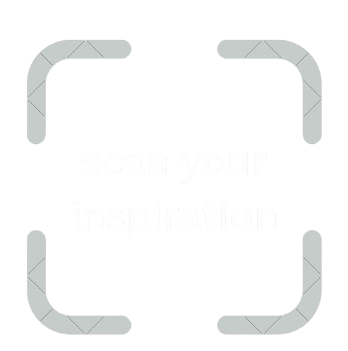
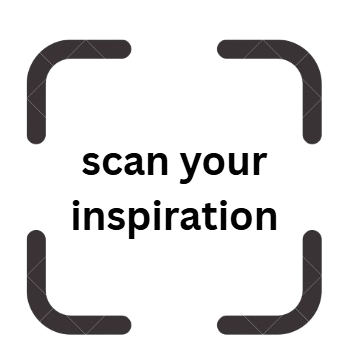
updated ui

diff --git a/my-fashion-app/src/App.jsx b/my-fashion-app/src/App.jsx
@@ -1,17 +1,111 @@
-import { useState } from "react";
+import { useState, useRef, useEffect } from "react";
+import { HiOutlineCamera } from "react-icons/hi";
 import defaultImage from "./assets/preview.png";
 import './index.css';
 
+function LoadingBar() {
+  return (
+    <div className="w-full h-1 bg-gray-200 relative overflow-hidden mb-4">
+      <div className="absolute inset-0 bg-blue-500 animate-loading-bar"></div>
+    </div>
+  );
+}
+
+function CameraCapture({ stream, stopCamera, onCapture }) {
+  const videoRef = useRef(null);
+
+  useEffect(() => {
+    if (videoRef.current && stream) {
+      videoRef.current.srcObject = stream;
+    }
+  }, [stream]);
+
+  const takePhoto = () => {
+    const video = videoRef.current;
+    if (!video) return;
+
+    const canvas = document.createElement("canvas");
+    canvas.width = video.videoWidth;
+    canvas.height = video.videoHeight;
+
+    const ctx = canvas.getContext("2d");
+    ctx.drawImage(video, 0, 0, canvas.width, canvas.height);
+
+    canvas.toBlob((blob) => {
+      if (blob) {
+        const photoUrl = URL.createObjectURL(blob);
+        onCapture(blob, photoUrl);
+        stopCamera();
+      }
+    }, "image/jpeg");
+  };
+
+  return (
+    <div className="camera-capture mb-6">
+      <video
+        ref={videoRef}
+        autoPlay
+        playsInline
+        muted
+        className="w-full rounded mb-2"
+        style={{ maxHeight: 400, objectFit: "contain" }}
+      />
+      <div className="flex gap-4 mb-4">
+        <button
+          onClick={takePhoto}
+          className="px-4 py-2 bg-green-600 text-white rounded hover:bg-green-700"
+        >
+          Take Photo
+        </button>
+        <button
+          onClick={stopCamera}
+          className="px-4 py-2 bg-red-600 text-white rounded hover:bg-red-700"
+        >
+          Cancel
+        </button>
+      </div>
+    </div>
+  );
+}
+
 function App() {
   const BACKEND_URL = "http://localhost:8000";
+
+  const [cameraActive, setCameraActive] = useState(false);
+  const [stream, setStream] = useState(null);
+  const [error, setError] = useState(null);
+
+  const startCamera = async () => {
+    setError(null);
+    try {
+      const mediaStream = await navigator.mediaDevices.getUserMedia({ video: true });
+      setStream(mediaStream);
+      setCameraActive(true);
+    } catch (err) {
+      setError("Could not access camera");
+    }
+  };
+
+  const stopCamera = () => {
+    if (stream) {
+      stream.getTracks().forEach((track) => track.stop());
+      setStream(null);
+    }
+    setCameraActive(false);
+  };
 
   const [started, setStarted] = useState(false);
   const [file, setFile] = useState(null);
   const [previewUrl, setPreviewUrl] = useState(defaultImage);
   const [products, setProducts] = useState([]);
   const [loading, setLoading] = useState(false);
-  const [error, setError] = useState(null);
   const [isDragging, setIsDragging] = useState(false);
+  const [expandedIndex, setExpandedIndex] = useState(null);
+
+  const handleCameraCapture = (blob, url) => {
+    setFile(new File([blob], "camera-photo.jpg", { type: blob.type }));
+    setPreviewUrl(url);
+  };
 
   const handleFileChange = (e) => {
     const selectedFile = e.target.files[0];
@@ -46,6 +140,7 @@ function App() {
       setFile(droppedFile);
       setPreviewUrl(URL.createObjectURL(droppedFile));
       e.dataTransfer.clearData();
+      setExpandedIndex(null);
     }
   };
 
@@ -60,6 +155,7 @@ function App() {
     setLoading(true);
     setError(null);
     setProducts([]);
+    setExpandedIndex(null);
 
     const formData = new FormData();
     formData.append("file", file);
@@ -85,10 +181,8 @@ function App() {
 
   if (!started) {
     return (
-      <div
-        className="h-screen w-screen flex flex-col justify-center items-center p-8 text-center box-border"
-      >
-        <h1 className="text-4xl font-bold mb-4">Welcome to Fitting Gap</h1>
+      <div className="h-screen w-screen flex flex-col justify-center items-center p-8 text-center box-border">
+        <h1 className="text-8xl font-bold mb-4">Welcome to Fitting Gap</h1>
         <p className="mb-8">Find recommended outfits based on your uploaded inspiration photo.</p>
         <button
           onClick={() => setStarted(true)}
@@ -101,34 +195,55 @@ function App() {
   }
 
   return (
-    <div className="p-8 box-border w-screen h-screen">
-      <div className="flex gap-12 mx-auto box-border" style={{ maxWidth: "1200px" }}>
+    <div className="p-16 box-border w-screen h-screen overflow-auto">
+      <div className="flex gap-6 mx-auto box-border">
         <div className="flex-1">
           <h1 className="text-3xl font-semibold mb-6">Upload Your Inspiration Photo</h1>
 
-          <div
-            onDragOver={handleDragOver}
-            onDragLeave={handleDragLeave}
-            onDrop={handleDrop}
-            onClick={() => document.getElementById("fileInput").click()}
-            className={`
-              relative group cursor-pointer rounded-lg border-2 border-dashed
-              transition-colors duration-300 mb-4
-              ${isDragging ? "border-gray-800 bg-gray-100" : "border-gray-300 bg-transparent"}
-              hover:bg-gray-600
-            `}
-          >
-            <p className="p-8 text-center">
-              {file ? file.name : "Drag and drop an image here, or click to browse."}
-            </p>
-            <input
-              id="fileInput"
-              type="file"
-              accept="image/*"
-              onChange={handleFileChange}
-              className="hidden"
-            />
+          <div className="flex items-center gap-6 mb-4">
+            <div
+              onDragOver={handleDragOver}
+              onDragLeave={handleDragLeave}
+              onDrop={handleDrop}
+              onClick={() => document.getElementById("fileInput").click()}
+              className={`
+                flex-1 relative cursor-pointer rounded-lg border-2 border-dashed
+                transition-colors duration-300 p-4
+                ${isDragging ? "border-gray-800 bg-gray-100" : "border-gray-300 bg-transparent"}
+                hover:bg-gray-300
+              `}
+            >
+              <p className="text-center">
+                {file ? file.name : "Drag and drop an image here, or click to browse."}
+              </p>
+              <input
+                id="fileInput"
+                type="file"
+                accept="image/*"
+                onChange={handleFileChange}
+                className="hidden"
+              />
+            </div>
+
+            {!cameraActive && (
+              <button
+                onClick={startCamera}
+                className="p-2 bg-blue-600 text-white rounded hover:bg-blue-700"
+                aria-label="Open Camera"
+                title="Open Camera"
+              >
+                <HiOutlineCamera className="h-6 w-6" />
+              </button>
+            )}
           </div>
+
+          {cameraActive && (
+            <CameraCapture
+              stream={stream}
+              stopCamera={stopCamera}
+              onCapture={handleCameraCapture}
+            />
+          )}
 
           <form onSubmit={handleSubmit} className="mb-8">
             <button
@@ -140,6 +255,8 @@ function App() {
             </button>
           </form>
 
+          {loading && <LoadingBar />}
+
           {error && <p className="text-red-600 mb-4">{error}</p>}
 
           {products.length > 0 && (
@@ -147,21 +264,45 @@ function App() {
               <h2 className="text-2xl font-semibold mb-4">Recommended Products</h2>
               <div className="grid grid-cols-3 gap-4 w-full">
                 {products.map((product, index) => {
+                  const isExpanded = expandedIndex === index;
                   const imageUrl = `${BACKEND_URL}/${product.image_path.replace(/\\/g, "/")}`;
+
+                  const priceText = product.price || "";
+                  const originalPriceMatch = priceText.match(/Original Price:\s*\$?([0-9.,]+)/i);
+                  const currentPriceMatch = priceText.match(/Current Price:\s*\$?([0-9.,]+)/i);
+
+                  const originalPrice = originalPriceMatch ? originalPriceMatch[1] : "";
+                  const currentPrice = currentPriceMatch ? currentPriceMatch[1] : "";
+
                   return (
                     <div
                       key={index}
-                      className="border border-gray-300 p-4 rounded-md text-left"
+                      className="rounded-md text-left cursor-pointer select-none"
+                      onClick={() => setExpandedIndex(isExpanded ? null : index)}
                     >
-                      <strong>{product.name}</strong>
-                      <p className="whitespace-pre-line">{product.price}</p>
-                      <p className="whitespace-pre-line">{product.description}</p>
                       <img
                         src={imageUrl}
                         alt={product.name}
-                        width={150}
-                        className="rounded mt-2"
+                        className="rounded-2xl mt-2 w-full object-contain"
                       />
+                      <p className="block mt-2 font-bold">{product.name}</p>
+
+                      <div className="flex items-center gap-2 text-sm text-gray-700 my-1">
+                        {originalPrice && (
+                          <span className="text-gray-500">
+                            <span className="line-through">${originalPrice}</span>
+                          </span>
+                        )}
+                        {currentPrice && (
+                          <span className="font-semibold text-black">
+                            ${currentPrice}
+                          </span>
+                        )}
+                      </div>
+
+                      {isExpanded && (
+                        <p className="whitespace-pre-line mt-2">{product.description}</p>
+                      )}
                     </div>
                   );
                 })}
@@ -170,9 +311,7 @@ function App() {
           )}
         </div>
 
-        <div
-          className="w-[500px] flex-shrink-0 overflow-hidden text-center rounded-lg shadow-md h-fit ml-auto"
-        >
+        <div className="w-[500px] flex-shrink-0 overflow-hidden text-center rounded-lg shadow-md h-fit">
           <h2 className="text-2xl font-semibold mb-4">Photo</h2>
           <img
             src={previewUrl}

diff --git a/my-fashion-app/src/index.css b/my-fashion-app/src/index.css
@@ -10,8 +10,8 @@
   font-weight: 400;
 
   color-scheme: light dark;
-  color: rgba(255, 255, 255, 0.87);
-  background-color: #242424;
+  color: rgba(18, 18, 18, 0.87);
+  background-color: #ffffff;
 
   font-synthesis: none;
   text-rendering: optimizeLegibility;
@@ -71,6 +71,21 @@ button:focus-visible {
   button {
     background-color: #f9f9f9;
   }
+}
+
+@keyframes loading-bar {
+  0% {
+    transform: translateX(-100%);
+  }
+  100% {
+    transform: translateX(100%);
+  }
+}
+
+.animate-loading-bar {
+  width: 100%;
+  height: 100%;
+  animation: loading-bar 1.5s linear infinite;
 }
 
 
